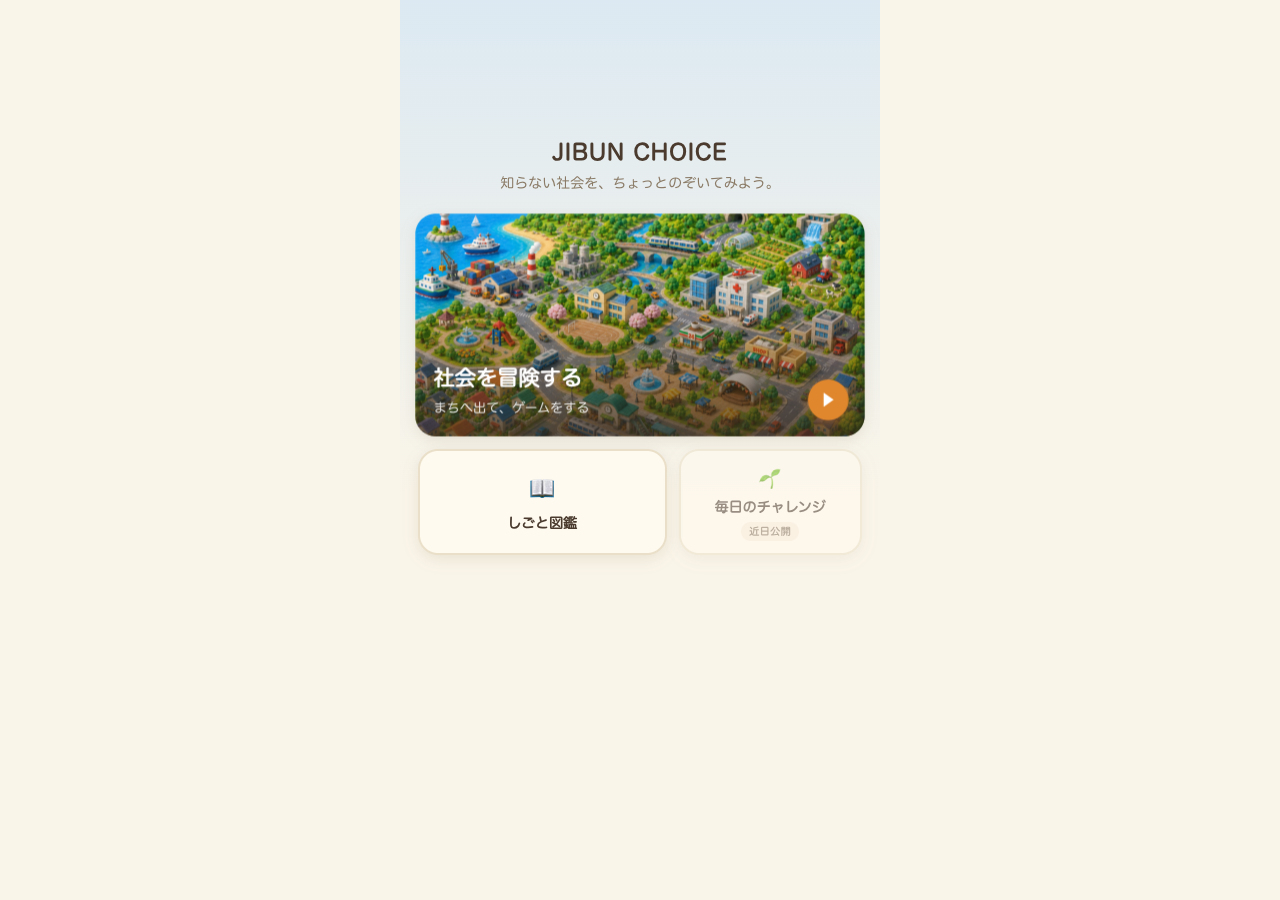
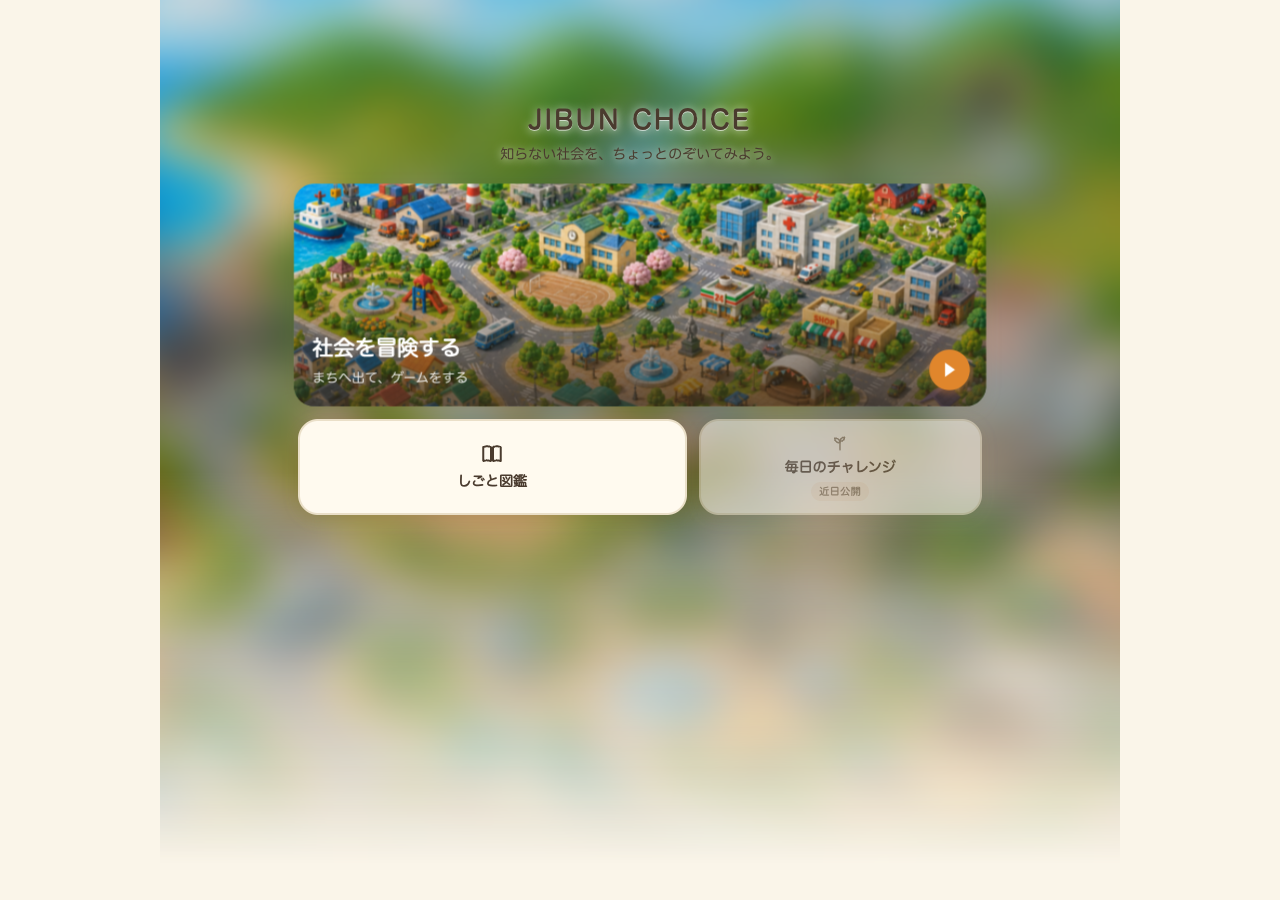
refactor: improve true home visual integration
Independent Codex whole-screen review (jc-visual-director's axes,
factory/harness/whole-screen-visual-director-prompt.md) of the current
True Home found overall_verdict=FAIL: mobile AMATEURISHNESS=44 and
ICON_CONSISTENCY=29 (OS emoji clashing against the clay-diorama
illustration), desktop WHOLE_SCREEN_COHESION=42 ("premium illustration
isolated inside a generic card shell"). Applying
factory/rules/visual-design-system.md (this round's other commit) as
the first concrete case:

- Replace the book/sprout OS emoji with matching single-stroke-width
  inline SVG icons (Claude's own functional-icon domain, no GPT asset
  needed).
- True Home's background is now a non-destructive blurred/darkened copy
  of the already-approved town-hero illustration (mask-faded toward the
  bottom) instead of a flat two-color gradient, so the screen reads as
  one continuous place instead of a photo dropped on a menu. No new art.
- Found and fixed a real bug this surfaced: .app-frame caps every screen
  at 480px, so the desktop background bleed was rendering as a narrow
  hard-edged strip; applied the same has(...) 960px override the World
  Map screen already uses.
- Legibility (wordmark/tagline text-shadow) and desktop card sizing
  follow-ups from the same review round.

Re-scored after each change (3 rounds total, screenshots + JSON verdicts
under factory/state/expansion/whole-screen-visual-director-*): mobile
AMATEURISHNESS 44->34->28, ICON_CONSISTENCY 29->64->78 — real, measured
[…]

diff --git a/src/index.css b/src/index.css
@@ -227,11 +227,42 @@ img {
    Human-Review background and the option comparison this replaced. */
 .true-home {
   min-height: 100dvh;
-  background: linear-gradient(180deg, var(--blue-soft) 0%, var(--cream) 55%);
   display: flex;
   flex-direction: column;
+  position: relative;
+  overflow: hidden;
+  /* 2026-09-04 (Visual Design System §BACKGROUND/§ILLUSTRATION_INTEGRATION):
+     baseline Codex whole-screen review (WHOLE_SCREEN_COHESION 42-52,
+     "premium illustration isolated inside a generic card shell") found the
+     flat two-color gradient made the hero card read as a photo dropped on a
+     plain menu. The background is now the SAME approved town illustration,
+     heavily blurred/darkened — no new art, non-destructive CSS only — so
+     the whole screen reads as one continuous place instead of an image
+     floating on an unrelated backdrop. The gradient stays as a scrim ON TOP
+     for text legibility, not as the background itself. */
+  background: linear-gradient(180deg, rgba(220, 233, 242, 0.88) 0%, rgba(250, 245, 233, 0.94) 60%);
+}
+.true-home::before {
+  content: "";
+  position: absolute;
+  inset: -6%;
+  background-image: url("/jibun-choice-town/assets/map-thumb/town-hero.png");
+  background-size: cover;
+  background-position: center 40%;
+  filter: blur(22px) saturate(1.05) brightness(0.92);
+  transform: scale(1.08);
+  z-index: 0;
+  /* fade the bled illustration out toward the bottom of the screen instead
+     of covering it edge-to-edge — on a tall viewport with unused space
+     below the cards, a full-height blur reads as a smear rather than an
+     extension of the world; fading back to the plain scrim keeps the
+     "one place" effect near the hero card without that risk. */
+  -webkit-mask-image: linear-gradient(180deg, #000 0%, #000 52%, transparent 88%);
+  mask-image: linear-gradient(180deg, #000 0%, #000 52%, transparent 88%);
 }
 .true-home-inner {
+  position: relative;
+  z-index: 1;
   flex: 1;
   display: flex;
   flex-direction: column;
@@ -245,8 +276,26 @@ img {
   text-align: center;
   margin-bottom: 6px;
 }
+.true-home-brand .logo {
+  /* was the plain shared .logo weight — Codex baseline flagged the wordmark
+     as reading like unstyled default text rather than a considered brand
+     mark; widening tracking + heavier weight uses the EXISTING type system
+     (no new font) per visual-design-system.md §TYPOGRAPHY. Now sitting over
+     a photographic (blurred) background instead of a flat tint, so it also
+     needs real lift to stay legible — a soft light halo, not just a hairline. */
+  font-size: 26px;
+  font-weight: 900;
+  letter-spacing: 2.5px;
+  text-shadow: 0 1px 10px rgba(255, 255, 255, 0.85), 0 1px 0 rgba(255, 255, 255, 0.6);
+}
 .true-home-brand .tagline {
   font-size: 14px;
+  color: var(--text);
+  text-shadow: 0 1px 8px rgba(255, 255, 255, 0.85);
+}
+@media (min-width: 980px) {
+  .true-home-inner { max-width: 720px; padding-top: 11dvh; }
+  .home-card-primary { height: 300px; }
 }
 
 .home-card {
@@ -348,7 +397,7 @@ img {
   gap: 4px;
   padding: 12px 8px;
 }
-.home-card-secondary .home-card-icon { font-size: 26px; }
+.home-card-secondary .home-card-icon { display: flex; color: var(--text); }
 .home-card-secondary .home-card-title { font-size: 14px; font-weight: bold; }
 .home-card-badge {
   position: absolute;
@@ -370,7 +419,8 @@ img {
   cursor: default;
   min-height: 80px;
 }
-.home-card-secondary.is-coming-soon .home-card-icon { font-size: 20px; }
+.home-card-secondary.is-coming-soon .home-card-icon { color: var(--text-soft); }
+.home-card-secondary.is-coming-soon .home-card-icon svg { width: 20px; height: 20px; }
 .home-card-secondary.is-coming-soon:active { transform: none; }
 .home-card-soon {
   font-size: 10px;
@@ -5579,6 +5629,16 @@ img {
   .app-frame:has(.world-screen) { max-width: 960px; }
   .world-screen .world { max-width: 960px; }
   .region-viewport { flex: none; height: 600px; }
+  /* 2026-09-04 (Experience Design Harness — Visual Design System round 2):
+     same .app-frame-caps-everything-at-480px issue as .world-screen above,
+     found via an independent Codex whole-screen review — the True Home
+     background bleed (.true-home::before) is positioned relative to
+     .true-home, so as long as its ancestor .app-frame stayed at 480px on a
+     1280px desktop viewport, the bled illustration only filled a narrow
+     center strip with a visible hard edge against the plain body background
+     on both sides, undercutting the very "one continuous world" effect it
+     was added for. */
+  .app-frame:has(.true-home) { max-width: 960px; }
 }
 
 /* Compass (map repair, 2026-09-04): replaces the old chip-bar menu. A

diff --git a/src/screens/HomeScreen.tsx b/src/screens/HomeScreen.tsx
@@ -8,6 +8,38 @@ import { useGame } from "../state/GameState";
 
 const M = (n: string) => `${import.meta.env.BASE_URL}assets/map-thumb/${n}.png`;
 
+/** 2026-09-04 (Experience Design Harness — Visual Design System §ICONOGRAPHY):
+ * OS emoji (📖🌱) render as photorealistic/platform-dependent glyphs that
+ * clash with the clay-diorama illustration style (Codex whole-screen review:
+ * ICON_CONSISTENCY=29/100, "incompatible rendering, scale, and visual
+ * weight"). Per the icon priority order in factory/rules/visual-design-
+ * system.md — reuse existing JC asset, then a Claude-authored functional SVG
+ * in one shared line style, GPT request only if neither suffices — these are
+ * simple functional glyphs (not world illustration), so drawing them as
+ * single-stroke-width line icons is Claude's own domain, not GPT's. */
+const ICON_STROKE = 1.8;
+function BookIcon() {
+  return (
+    <svg width="26" height="26" viewBox="0 0 24 24" fill="none" aria-hidden="true">
+      <path
+        d="M4 5.5c2.2-1 4.6-1 7 0v13c-2.4-1-4.8-1-7 0v-13Z M20 5.5c-2.2-1-4.6-1-7 0v13c2.4-1 4.8-1 7 0v-13Z"
+        stroke="currentColor" strokeWidth={ICON_STROKE} strokeLinejoin="round" strokeLinecap="round"
+      />
+    </svg>
+  );
+}
+function SproutIcon() {
+  return (
+    <svg width="26" height="26" viewBox="0 0 24 24" fill="none" aria-hidden="true">
+      <path d="M12 20V11" stroke="currentColor" strokeWidth={ICON_STROKE} strokeLinecap="round" />
+      <path
+        d="M12 12c0-3.6-2.7-6-6.5-6C5.5 9.8 8 12 12 12Z M12 10c0-3 2.2-5 5.5-5C17.5 8.3 15.5 10 12 10Z"
+        stroke="currentColor" strokeWidth={ICON_STROKE} strokeLinejoin="round" strokeLinecap="round"
+      />
+    </svg>
+  );
+}
+
 export default function HomeScreen() {
   const { navigate, progress } = useGame();
 
@@ -39,7 +71,7 @@ export default function HomeScreen() {
 
         <div className="home-card-row">
           <button className="home-card home-card-secondary" onClick={() => navigate({ name: "zukan" })}>
-            <span className="home-card-icon">📖</span>
+            <span className="home-card-icon"><BookIcon /></span>
             <span className="home-card-title">しごと図鑑</span>
             {progress.discovered.length > 0 && (
               <span className="home-card-badge">{progress.discovered.length}</span>
@@ -47,7 +79,7 @@ export default function HomeScreen() {
           </button>
 
           <button className="home-card home-card-secondary is-coming-soon" disabled>
-            <span className="home-card-icon">🌱</span>
+            <span className="home-card-icon"><SproutIcon /></span>
             <span className="home-card-title">毎日のチャレンジ</span>
             <span className="home-card-soon">近日公開</span>
           </button>
